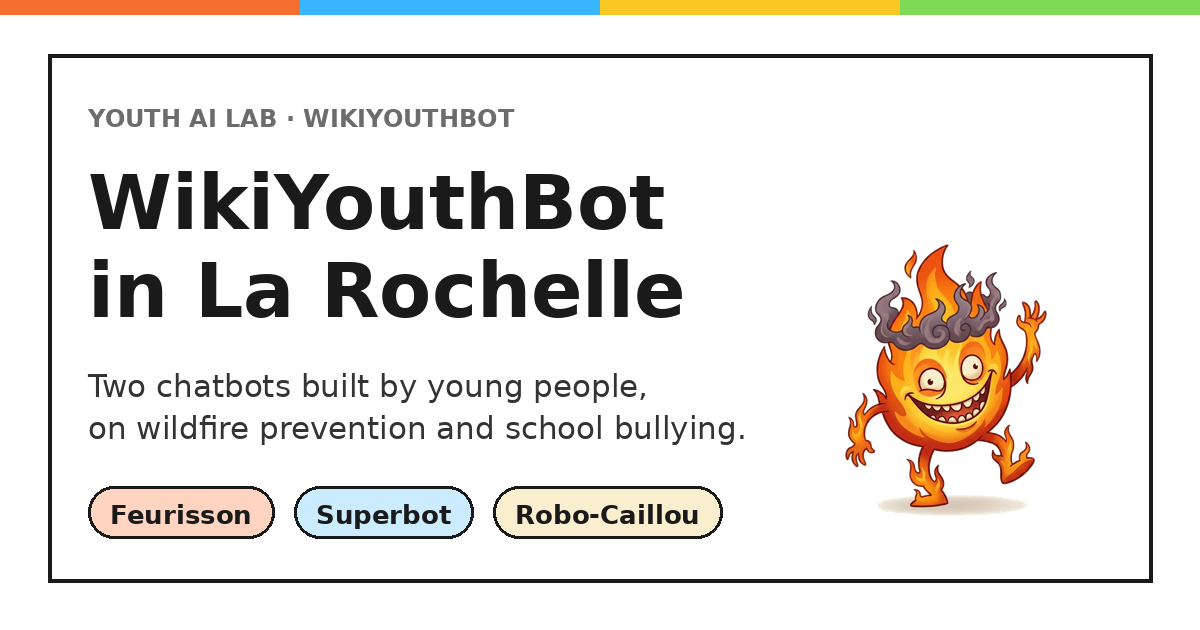
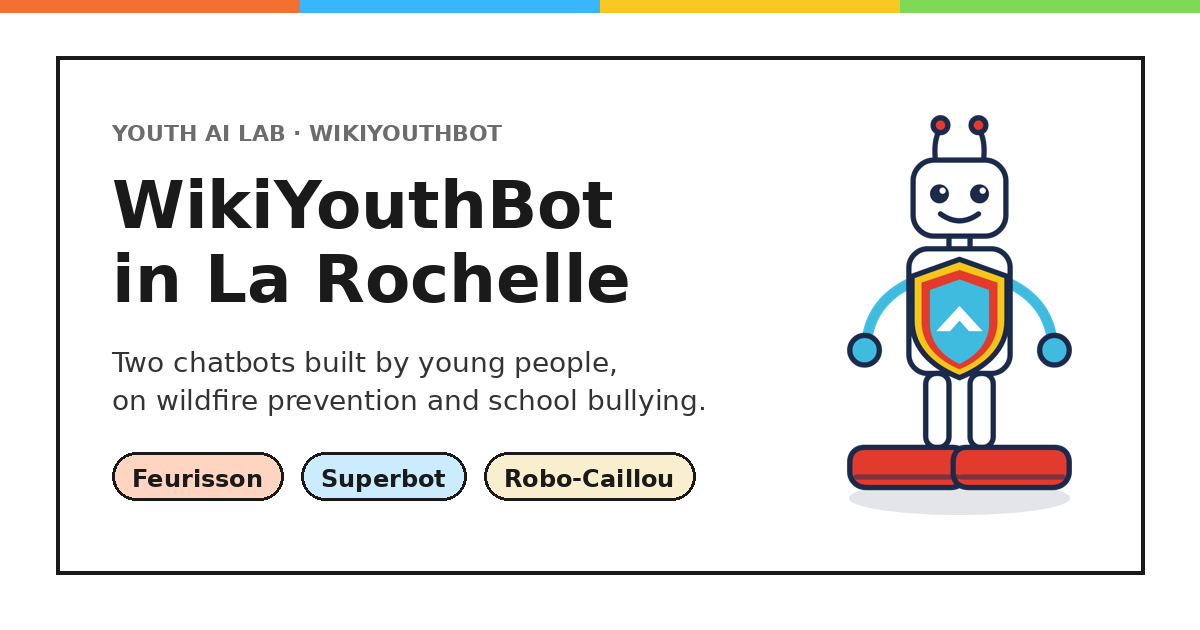
Social image: more margin and the Superbot mascot

Changed region(s): [[0.0308, 0.0603, 0.9867, 0.9349], [0.6783, 0.181, 0.8942, 0.8143], [0.0, 0.0, 1.0, 0.0302]]

diff --git a/index.html b/index.html
@@ -15,7 +15,7 @@
 <meta property="og:image" content="https://youth-ai-lab.github.io/wikiyouthbot/og.png">
 <meta property="og:image:width" content="1200">
 <meta property="og:image:height" content="630">
-<meta property="og:image:alt" content="WikiYouthBot in La Rochelle, with the Feurisson flame mascot.">
+<meta property="og:image:alt" content="WikiYouthBot in La Rochelle, with the Superbot robot mascot.">
 <meta name="twitter:card" content="summary_large_image">
 <meta name="twitter:title" content="WikiYouthBot in La Rochelle">
 <meta name="twitter:description" content="Two chatbots built by young people, on wildfire prevention and school bullying.">
